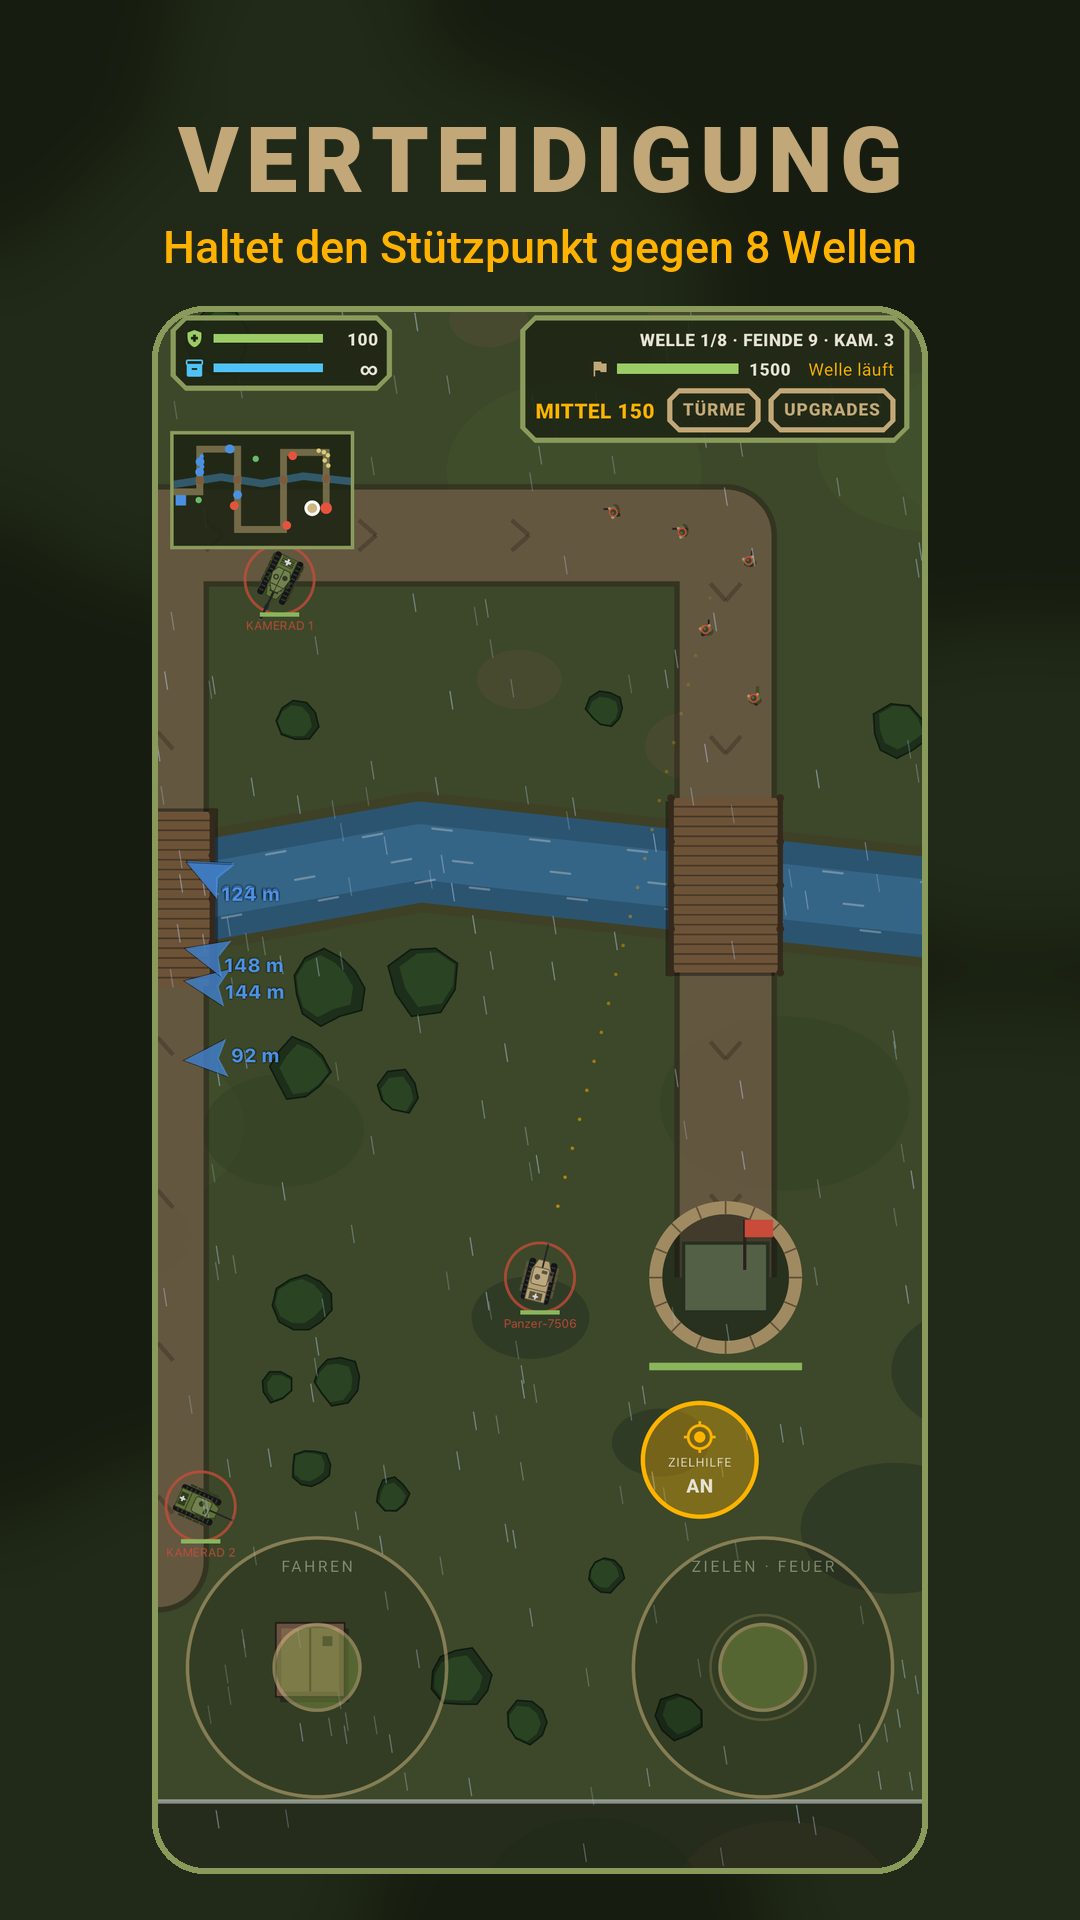
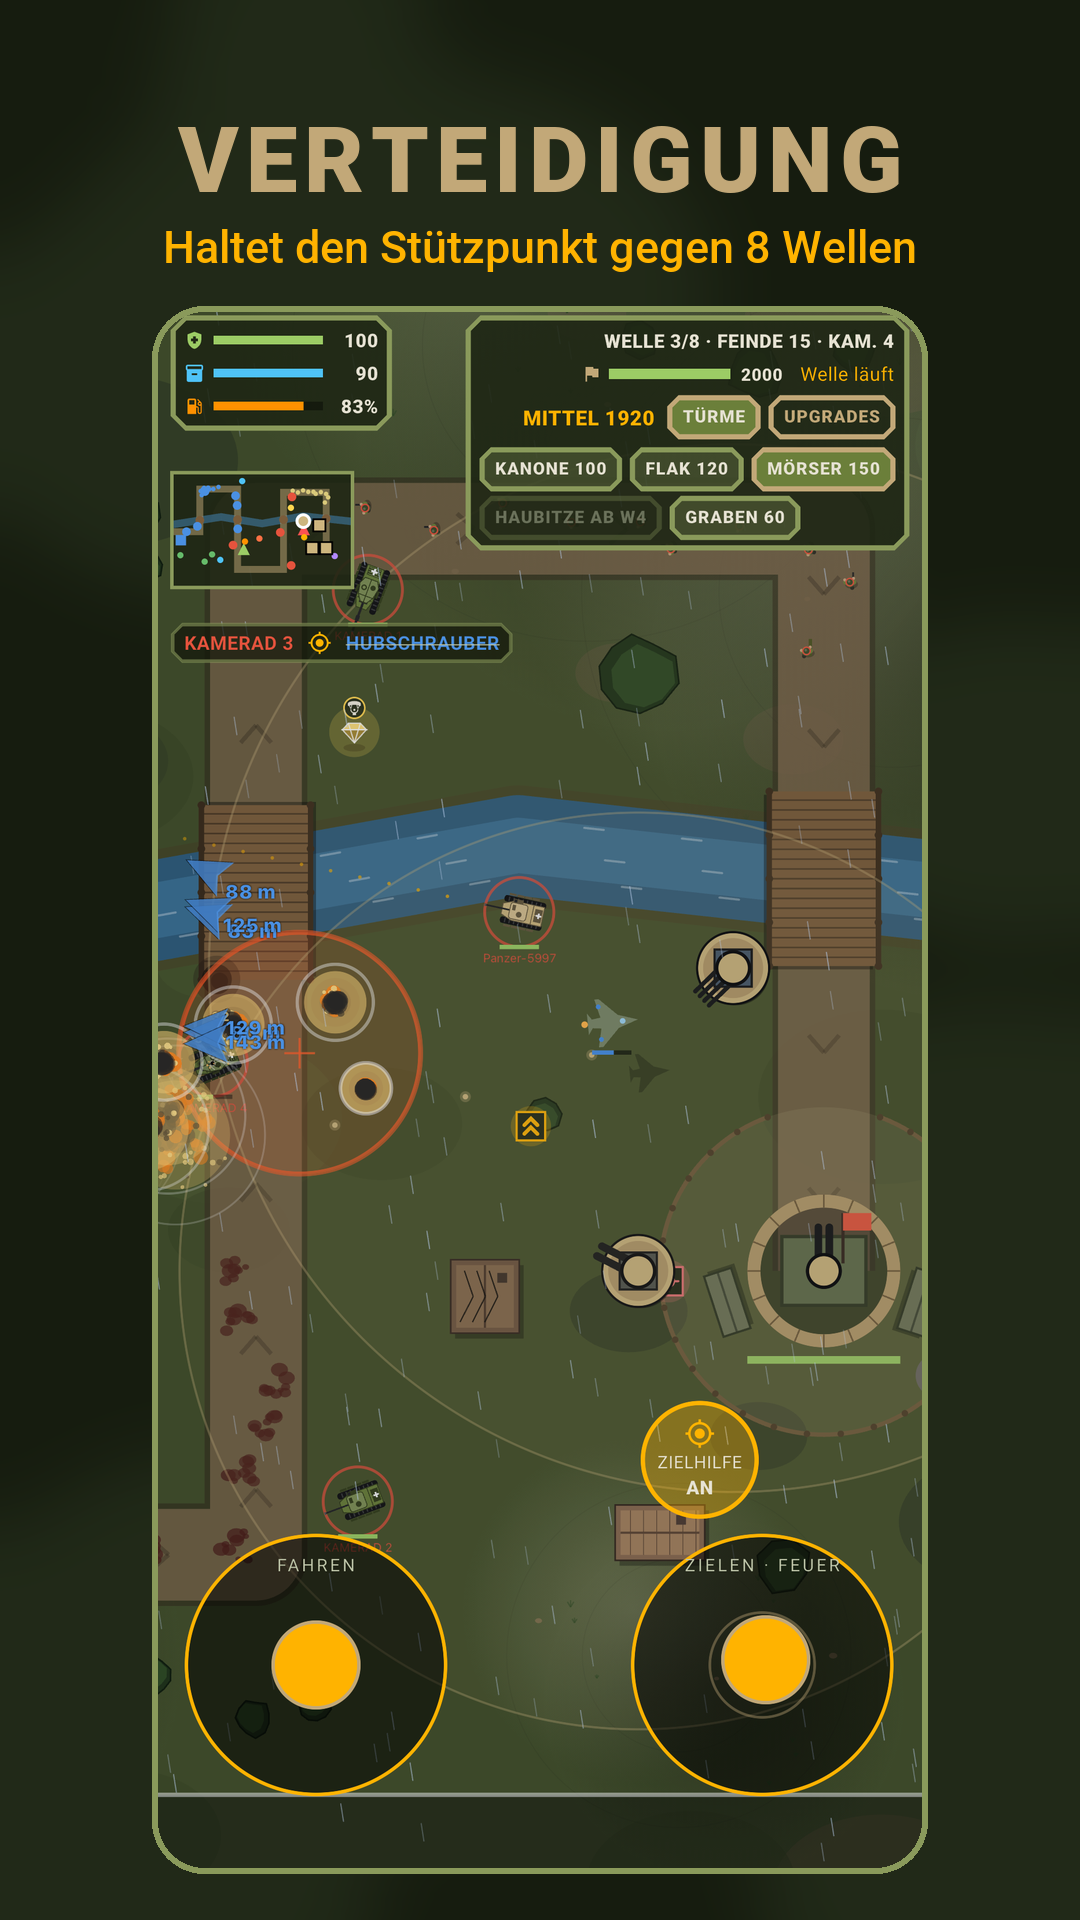
Retake the store screenshots in German and English and show the English ones in the README
The Simulator brings a virtual gamepad of its own, which hid the touch
sticks; launched with -ignoreGamepads YES the app now plays as on a phone.
compose.py builds both languages for the App Store and Google Play, and the
feature graphic names the game Panzergefecht.

Changed region(s): [[0.1222, 0.1562, 0.8556, 0.9688], [0.4583, 0.5625, 0.5194, 0.5938], [0.55, 0.3438, 0.5806, 0.375]]

diff --git a/ios/Runner/GamepadPlugin.swift b/ios/Runner/GamepadPlugin.swift
@@ -98,6 +98,12 @@ class GamepadPlugin: NSObject, FlutterPlugin, FlutterStreamHandler {
   /// Remote after them: the first one steers alone, the first two play a
   /// duel.
   private static func ordered() -> [GCController] {
+    // The Simulator brings a virtual gamepad of its own, which hides the
+    // touch sticks. Launched with `-ignoreGamepads YES` (store screenshots)
+    // the app plays as on a phone without a controller.
+    if UserDefaults.standard.bool(forKey: "ignoreGamepads") {
+      return []
+    }
     let all = GCController.controllers()
     return all.filter { $0.extendedGamepad != nil }
       + all.filter { $0.extendedGamepad == nil && $0.microGamepad != nil }

diff --git a/store/tool/compose.py b/store/tool/compose.py
@@ -2,9 +2,10 @@
 
     python3 store/tool/compose.py <raw dir>
 
-Reads the raw simulator screenshots named in SHOTS from <raw dir> and writes
-the finished images to store/ios/screenshots/de-DE/ for the App Store and to
-store/android/metadata/android/de-DE/images/ for Google Play, plus the Play
+Reads the raw simulator screenshots named in SHOTS from <raw dir>/de-DE and
+<raw dir>/en-US and writes the finished images for each language to
+store/ios/screenshots/<lang>/ for the App Store and to
+store/android/metadata/android/<lang>/images/ for Google Play, plus the Play
 feature graphic. Needs Pillow.
 """
 
@@ -18,8 +19,16 @@ import app_icon
 
 ROOT = Path(__file__).resolve().parents[2]
 FONTS = ROOT / "assets" / "fonts"
-IOS = ROOT / "store" / "ios" / "screenshots" / "de-DE"
-PLAY = ROOT / "store" / "android" / "metadata" / "android" / "de-DE" / "images"
+LANGS = ("de-DE", "en-US")
+
+
+def ios_dir(lang):
+    return ROOT / "store" / "ios" / "screenshots" / lang
+
+
+def play_dir(lang):
+    return ROOT / "store" / "android" / "metadata" / "android" / lang / "images"
+
 
 BACKGROUND = (22, 28, 15)
 BLOB = (42, 53, 32)
@@ -27,28 +36,51 @@ EDGE = (138, 154, 91)
 SAND = (194, 168, 120)
 AMBER = (255, 179, 0)
 
-# (output name, raw file, canvas size, headline, subline)
+# (output name, raw file, canvas size, {lang: (headline, subline)})
 IPHONE = (1320, 2868)
 IPAD = (2752, 2064)
 IOS_SHOTS = [
-    ("iphone-01-gefecht", "i_b6", IPHONE, "PANZERGEFECHT",
-     "Der letzte Panzer im Feld gewinnt"),
-    ("iphone-02-verteidigung", "i_d4", IPHONE, "VERTEIDIGUNG",
-     "Haltet den Stützpunkt gegen 8 Wellen"),
-    ("iphone-03-geschuetze", "i_d6", IPHONE, "GESCHÜTZE BAUEN",
-     "Kanone, Flak und Mörser an der Straße"),
-    ("iphone-04-fahrzeuge", "i_lobby2", IPHONE, "8 FAHRZEUGE",
-     "Mit jedem Rang ein neues freigespielt"),
-    ("iphone-05-steuerung", "i_tut4", IPHONE, "ZWEI DAUMEN",
-     "Links fahren, rechts zielen, Zielhilfe an"),
-    ("iphone-06-modi", "i_menu", IPHONE, "DREI SPIELARTEN",
-     "Allein, gegeneinander oder gemeinsam"),
-    ("ipad-01-start", "p_1", IPAD, "DREI SPIELARTEN",
-     "Gegen CPU-Panzer, gegen andere oder gemeinsam gegen Wellen"),
-    ("ipad-02-verteidigung", "p_d6", IPAD, "VERTEIDIGUNG",
-     "Kameraden, Geschütze und Wetter, das die Sicht nimmt"),
-    ("ipad-03-warteraum", "p_2b", IPAD, "DEIN EINSATZ",
-     "Gelände, Tageszeit, Schwierigkeit und Fahrzeug wählen"),
+    ("iphone-01-gefecht", "i_battle", IPHONE, {
+        "de-DE": ("PANZERGEFECHT", "Der letzte Panzer im Feld gewinnt"),
+        "en-US": ("TANK BATTLE", "The last tank standing wins"),
+    }),
+    ("iphone-02-verteidigung", "i_defense", IPHONE, {
+        "de-DE": ("VERTEIDIGUNG", "Haltet den Stützpunkt gegen 8 Wellen"),
+        "en-US": ("DEFENSE", "Hold the base against 8 waves"),
+    }),
+    ("iphone-03-geschuetze", "i_guns", IPHONE, {
+        "de-DE": ("GESCHÜTZE BAUEN", "Kanone, Flak und Mörser an der Straße"),
+        "en-US": ("BUILD GUNS", "Cannon, flak and mortar by the road"),
+    }),
+    ("iphone-04-fahrzeuge", "i_lobby", IPHONE, {
+        "de-DE": ("8 FAHRZEUGE", "Mit jedem Rang ein neues freigespielt"),
+        "en-US": ("8 VEHICLES", "A new one with every rank"),
+    }),
+    ("iphone-05-steuerung", "i_controls", IPHONE, {
+        "de-DE": ("ZWEI DAUMEN", "Links fahren, rechts zielen, Zielhilfe an"),
+        "en-US": ("TWO THUMBS", "Drive left, aim right, aim assist on"),
+    }),
+    ("iphone-06-modi", "i_menu", IPHONE, {
+        "de-DE": ("DREI SPIELARTEN", "Allein, gegeneinander oder gemeinsam"),
+        "en-US": ("3 WAYS TO PLAY", "Alone, against others or together"),
+    }),
+    ("ipad-01-gefecht", "p_battle", IPAD, {
+        "de-DE": ("PANZERGEFECHT",
+                  "Gegen CPU-Panzer oder andere, in Stadt, Wüste und Winter"),
+        "en-US": ("TANK BATTLE",
+                  "Against CPU tanks or others, in town, desert and snow"),
+    }),
+    ("ipad-02-verteidigung", "p_defense", IPAD, {
+        "de-DE": ("VERTEIDIGUNG",
+                  "Kameraden, Geschütze und ein Stützpunkt, der wächst"),
+        "en-US": ("DEFENSE", "Comrades, guns and a base that grows"),
+    }),
+    ("ipad-03-warteraum", "p_room", IPAD, {
+        "de-DE": ("DEIN EINSATZ",
+                  "Freunde per Code oder QR-Code einladen, Fahrzeug wählen"),
+        "en-US": ("YOUR MISSION",
+                  "Invite friends by code or QR code, pick your vehicle"),
+    }),
 ]
 
 # Google Play wants no side longer than twice the other, which rules out the
@@ -59,14 +91,14 @@ SMALL_TABLET = (1920, 1200)
 
 
 PLAY_SHOTS = [
-    ("phoneScreenshots/" + name.removeprefix("iphone-"), raw, PHONE, head, sub)
+    ("phoneScreenshots/" + name.removeprefix("iphone-"), raw, PHONE, text)
     if size == IPHONE else
-    ("tenInchScreenshots/" + name.removeprefix("ipad-"), raw, TABLET, head, sub)
-    for name, raw, size, head, sub in IOS_SHOTS
+    ("tenInchScreenshots/" + name.removeprefix("ipad-"), raw, TABLET, text)
+    for name, raw, size, text in IOS_SHOTS
 ] + [
     ("sevenInchScreenshots/" + name.removeprefix("ipad-"), raw, SMALL_TABLET,
-     head, sub)
-    for name, raw, size, head, sub in IOS_SHOTS
+     text)
+    for name, raw, size, text in IOS_SHOTS
     if size == IPAD
 ]
 
@@ -74,14 +106,27 @@ PLAY_SHOTS = [
 # does not take the 6.9" shots there.
 IPHONE_63 = (1206, 2622)
 IOS_63_SHOTS = [
-    (name.replace("iphone-", "iphone63-"), raw, IPHONE_63, head, sub)
-    for name, raw, size, head, sub in IOS_SHOTS
+    (name.replace("iphone-", "iphone63-"), raw, IPHONE_63, text)
+    for name, raw, size, text in IOS_SHOTS
     if size == IPHONE
 ]
 
-SHOTS = [(IOS / name, *rest) for name, *rest in IOS_SHOTS + IOS_63_SHOTS] + [
-    (PLAY / name, *rest) for name, *rest in PLAY_SHOTS
+SHOTS = [
+    (lang, ios_dir(lang) / name, raw, size, *text[lang])
+    for lang in LANGS
+    for name, raw, size, text in IOS_SHOTS + IOS_63_SHOTS
+] + [
+    (lang, play_dir(lang) / name, raw, size, *text[lang])
+    for lang in LANGS
+    for name, raw, size, text in PLAY_SHOTS
 ]
+
+FEATURE = {
+    "de-DE": ("Panzerduelle und Verteidigung",
+              "Allein, gegeneinander, gemeinsam"),
+    "en-US": ("Tank duels and tower defense",
+              "Alone, against others, together"),
+}
 
 
 def font(name, size):
@@ -129,7 +174,7 @@ def frame(shot, height):
     return out
 
 
-def compose(out, raw, size, headline, subline, raw_dir):
+def compose(lang, out, raw, size, headline, subline, raw_dir):
     w, h = size
     portrait = h > w
     canvas = backdrop(size, out.name)
@@ -141,7 +186,7 @@ def compose(out, raw, size, headline, subline, raw_dir):
     sub_y = top + head.size * 1.25
     draw.text((w / 2, sub_y), subline, font=sub, fill=AMBER, anchor="ma")
 
-    shot = Image.open(raw_dir / f"{raw}.png")
+    shot = Image.open(raw_dir / lang / f"{raw}.png")
     if shot.height > shot.width:
         # Drops the status strip with the cut-out of the Dynamic Island, the
         # game draws nothing there.
@@ -155,7 +200,7 @@ def compose(out, raw, size, headline, subline, raw_dir):
     save(canvas, out)
 
 
-def feature_graphic():
+def feature_graphic(lang):
     """The 1024 x 500 banner Google Play shows above the screenshots."""
     w, h = 1024, 500
     canvas = backdrop((w, h), "feature")
@@ -166,15 +211,14 @@ def feature_graphic():
     tank = layer.crop(box).resize(size, Image.LANCZOS)
     canvas.paste(tank, (70, (h - tank.height) // 2), tank)
     draw = ImageDraw.Draw(canvas)
-    head = font("Roboto-Black.ttf", 92)
+    head = font("Roboto-Black.ttf", 60)
     sub = font("Roboto-Medium.ttf", 34)
     centre = 70 + tank.width + (w - 70 - tank.width) / 2
-    spaced(draw, (centre, 150), "WARGAME", head, SAND, 7)
-    draw.text((centre, 270), "Panzerduelle und Verteidigung", font=sub,
-              fill=AMBER, anchor="ma")
-    draw.text((centre, 320), "Allein, gegeneinander, gemeinsam", font=sub,
-              fill=EDGE, anchor="ma")
-    save(canvas, PLAY / "featureGraphic")
+    spaced(draw, (centre, 150), "PANZERGEFECHT", head, SAND, 5)
+    line1, line2 = FEATURE[lang]
+    draw.text((centre, 270), line1, font=sub, fill=AMBER, anchor="ma")
+    draw.text((centre, 320), line2, font=sub, fill=EDGE, anchor="ma")
+    save(canvas, play_dir(lang) / "featureGraphic")
 
 
 def save(canvas, out):
@@ -187,4 +231,5 @@ if __name__ == "__main__":
     source = Path(sys.argv[1])
     for entry in SHOTS:
         compose(*entry, source)
-    feature_graphic()
+    for lang in LANGS:
+        feature_graphic(lang)

diff --git a/README.md b/README.md
@@ -8,15 +8,17 @@ mode. In German and English, without ads.
 Android apps · Apple TV · Apple Watch (in progress)
 
 <p align="center">
-  <img src="store/ios/screenshots/de-DE/ipad-02-verteidigung.png" alt="Defense round on an iPad: a river with bridges, the base and CPU comrades" width="720">
+  <img src="store/ios/screenshots/en-US/ipad-02-verteidigung.png" alt="A defense round on an iPad: the road, a river with bridges, the grown base, guns and CPU comrades" width="720">
 </p>
 
 <p align="center">
-  <img src="store/ios/screenshots/de-DE/iphone-01-gefecht.png" alt="A battle in the rain with the closing zone" width="170">
-  <img src="store/ios/screenshots/de-DE/iphone-03-geschuetze.png" alt="Guns in the defense mode" width="170">
-  <img src="store/ios/screenshots/de-DE/iphone-04-fahrzeuge.png" alt="The vehicles" width="170">
-  <img src="store/ios/screenshots/de-DE/iphone-06-modi.png" alt="The ways to play" width="170">
+  <img src="store/ios/screenshots/en-US/iphone-01-gefecht.png" alt="A battle against CPU tanks in the rain, with the closing zone" width="170">
+  <img src="store/ios/screenshots/en-US/iphone-02-verteidigung.png" alt="Defense: a jet bombs the enemy at the bridge" width="170">
+  <img src="store/ios/screenshots/en-US/iphone-04-fahrzeuge.png" alt="Picking a vehicle and its paint" width="170">
+  <img src="store/ios/screenshots/en-US/iphone-06-modi.png" alt="The start page with the three ways to play" width="170">
 </p>
+
+<sub>Screenshots in German: [store/ios/screenshots/de-DE](store/ios/screenshots/de-DE).</sub>
 
 ## Ways to play
 

diff --git a/store/ios/README.md b/store/ios/README.md
@@ -43,8 +43,18 @@ python3 store/tool/android_icons.py
 
 ## Screenshots neu erzeugen
 
-Rohaufnahmen aus dem Simulator (iPhone 17 Pro Max, iPad Pro 13" quer) in
-einen Ordner legen, die Namen stehen in `SHOTS` in `../tool/compose.py`:
+Rohaufnahmen aus dem Simulator (iPhone 17 Pro Max, iPad Pro 13" quer) je
+Sprache in `<ordner>/de-DE` und `<ordner>/en-US` legen, die Namen stehen in
+`SHOTS` in `../tool/compose.py`. Die Sprache stellt man im Spiel im Konto um.
+Der Simulator meldet einen eigenen Gamecontroller, der die Touch-Sticks
+ausblendet; mit `-ignoreGamepads YES` gestartet spielt die App wie auf einem
+Handy ohne Controller:
+
+```sh
+xcrun simctl launch <sim-id> de.regetskcob.wargame -ignoreGamepads YES
+```
+
+Daraus entstehen beide Sprachsätze für App Store und Google Play:
 
 ```sh
 pip3 install --user pillow

diff --git a/store/android/README.md b/store/android/README.md
@@ -29,7 +29,9 @@ python3 store/tool/compose.py <ordner-mit-rohaufnahmen>
 python3 store/tool/android_icons.py
 ```
 
-Die Screenshots zeigen die iOS-Rohaufnahmen ohne Statusleiste, das Spiel
+Englische Screenshots und Vorstellungsgrafik liegen genauso unter
+`metadata/android/en-US/images/`. Die Screenshots zeigen die
+iOS-Rohaufnahmen ohne Statusleiste, das Spiel
 zeichnet auf Android dasselbe Bild.
 
 ## Build und Signieren
